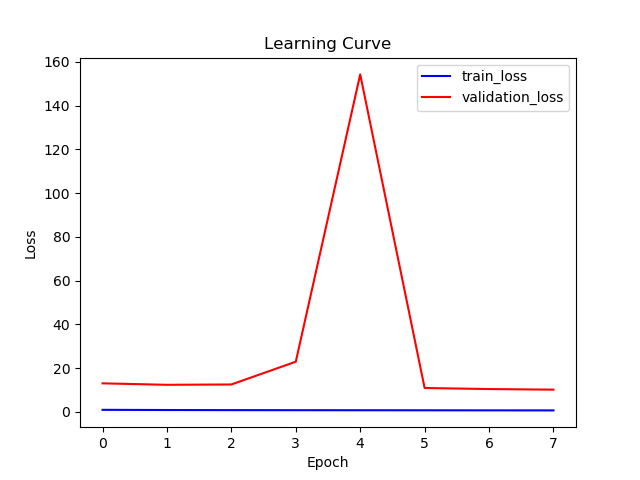
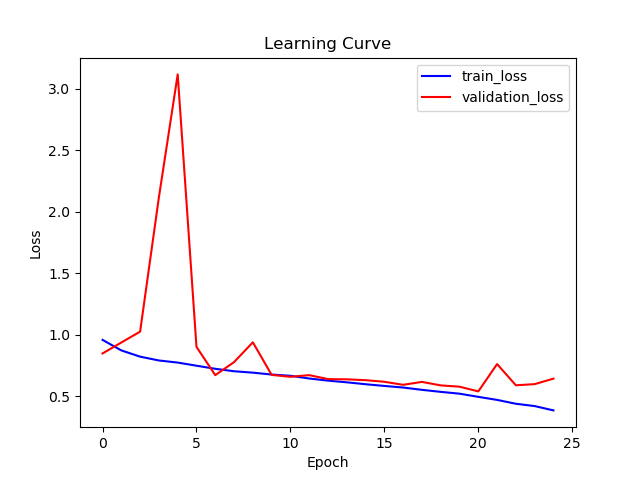
Fixed issue with early stopping

diff --git a/homework/assignment2/bin/resnet50.py b/homework/assignment2/bin/resnet50.py
@@ -15,7 +15,7 @@ from torch.optim.lr_scheduler import StepLR
 from skimage import io
 
 # Constants for the name of the model to save to
-MODEL_NAME = "densenet"
+MODEL_NAME = "resnet50"
 
 # Class for the dataset
 class ImagesDataset(Dataset):
@@ -152,8 +152,8 @@ def main():
                         help='input batch size for training (default: 8)')
     parser.add_argument('--test-batch-size', type=int, default=64, metavar='N',
                         help='input batch size for testing (default: 64)')
-    parser.add_argument('--epochs', type=int, default=50, metavar='N',
-                        help='number of epochs to train (default: 50)')
+    parser.add_argument('--epochs', type=int, default=25, metavar='N',
+                        help='number of epochs to train (default: 25)')
     parser.add_argument('--gamma', type=float, default=1, metavar='N',
                         help='gamma value for learning rate decay (default: 1)')
     parser.add_argument('--no-cuda', action='store_true', default=False,
@@ -183,11 +183,11 @@ def main():
     val_loader = DataLoader(val_data, batch_size=args.test_batch_size, shuffle=False, num_workers=0)
 
     # Use densenet
-    model = models.densenet121()
+    model = models.resnet50()
     # Number of classes is 7
     num_classes = 7
     # Reshape the output for densenet for this problem
-    model.classifier = nn.Linear(1024, num_classes)
+    model.classifier = nn.Linear(512, num_classes)
     # Send model to gpu
     model = model.to(device)
     # Specify Adam optimizer
